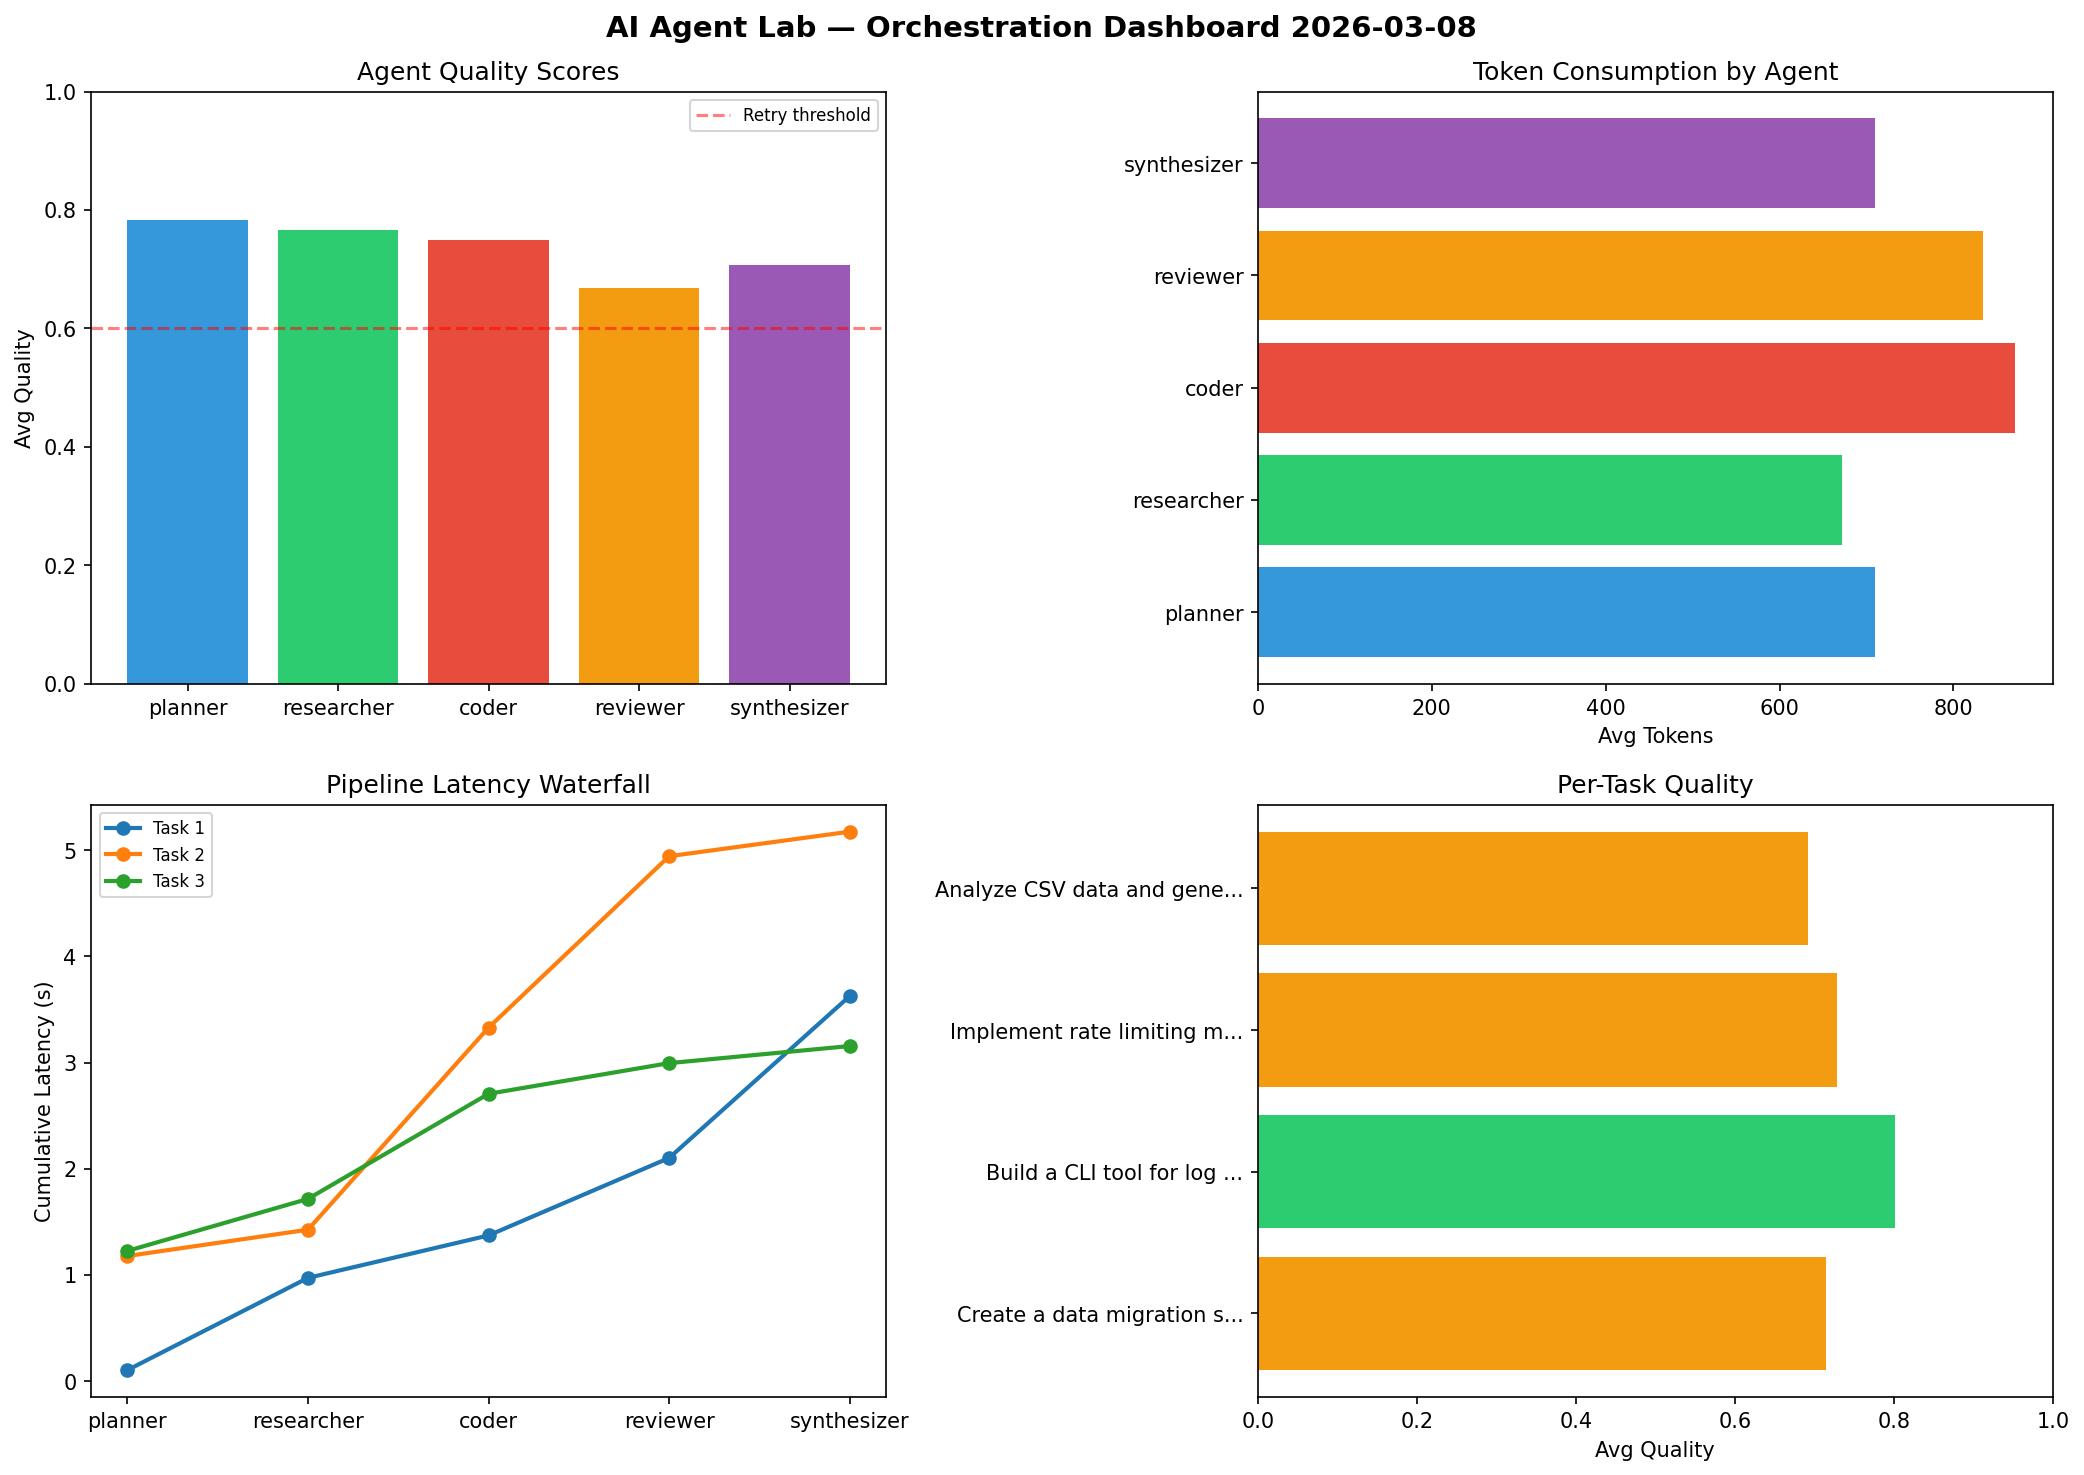
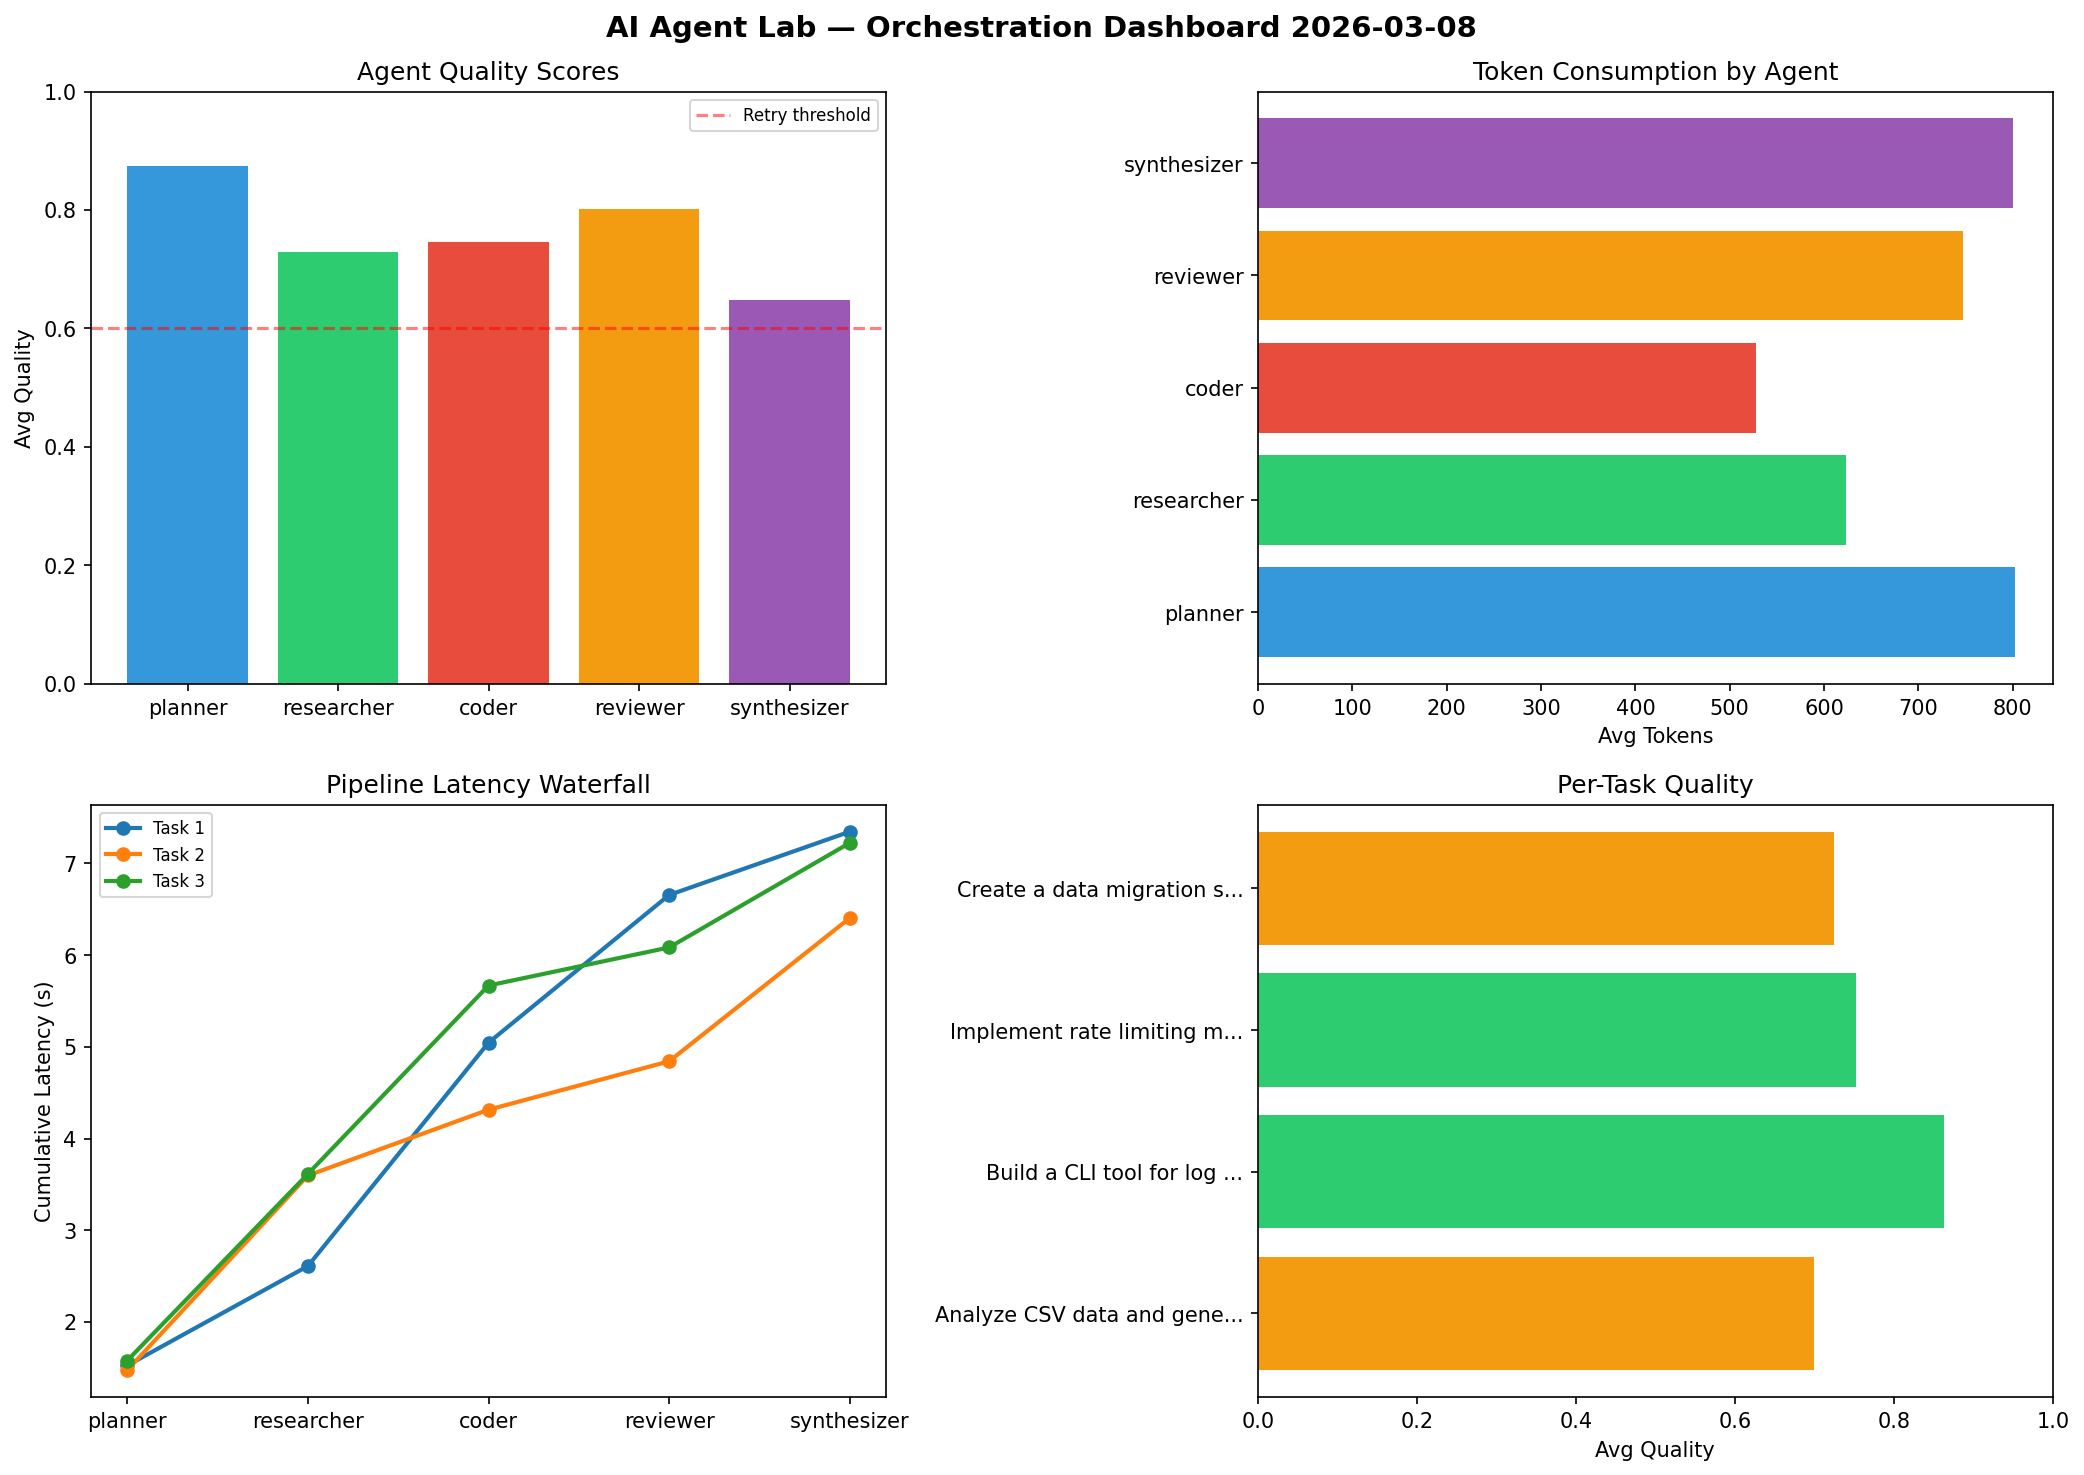
ai-agent-lab: orchestration run 2026-03-08T20:44

diff --git a/logs/2026-03-08.md b/logs/2026-03-08.md
@@ -1,6 +1,6 @@
 # AI Agent Lab — Orchestration Report 2026-03-08
 
-**Run ID:** `512e3738a9` | **Tasks:** 4 | **Avg Quality:** 0.734
+**Run ID:** `ca94dc91be` | **Tasks:** 4 | **Avg Quality:** 0.76
 
 ![Dashboard](2026-03-08_dashboard.png)
 
@@ -8,52 +8,52 @@
 
 | Metric | Value |
 |--------|-------|
-| avg_latency | 5.07 |
-| total_tokens | 15182 |
-| avg_quality | 0.734 |
+| avg_latency | 6.651 |
+| total_tokens | 13999 |
+| avg_quality | 0.76 |
 
 ## Delta vs Yesterday
 
 | Metric | Today | Yesterday | Change |
 |--------|-------|-----------|--------|
-| avg_latency | 5.07 | 6.577 | 📉 -22.9% |
-| total_tokens | 15182 | 15138 | 📈 0.3% |
-| avg_quality | 0.734 | 0.816 | 📉 -10.0% |
+| avg_latency | 6.651 | 6.577 | 📈 1.1% |
+| total_tokens | 13999 | 15138 | 📉 -7.5% |
+| avg_quality | 0.76 | 0.816 | 📉 -6.9% |
 
 ## Pipeline Results
-
-### Create a data migration script for schema v2
-| Agent | Quality | Latency | Tokens | Status |
-|-------|---------|---------|--------|--------|
-| planner | 0.993 | 0.103s | 515 | success |
-| researcher | 0.794 | 0.869s | 789 | success |
-| coder | 0.571 | 0.4s | 788 | needs_retry |
-| reviewer | 0.67 | 0.73s | 821 | success |
-| synthesizer | 0.547 | 1.525s | 568 | needs_retry |
-
-### Build a CLI tool for log analysis
-| Agent | Quality | Latency | Tokens | Status |
-|-------|---------|---------|--------|--------|
-| planner | 0.729 | 1.178s | 817 | success |
-| researcher | 0.88 | 0.248s | 661 | success |
-| coder | 0.907 | 1.903s | 779 | success |
-| reviewer | 0.635 | 1.615s | 1206 | success |
-| synthesizer | 0.86 | 0.231s | 766 | success |
-
-### Implement rate limiting middleware
-| Agent | Quality | Latency | Tokens | Status |
-|-------|---------|---------|--------|--------|
-| planner | 0.865 | 1.226s | 753 | success |
-| researcher | 0.642 | 0.49s | 529 | success |
-| coder | 0.772 | 0.99s | 999 | success |
-| reviewer | 0.698 | 0.289s | 704 | success |
-| synthesizer | 0.669 | 0.161s | 1175 | success |
 
 ### Analyze CSV data and generate statistical summary
 | Agent | Quality | Latency | Tokens | Status |
 |-------|---------|---------|--------|--------|
-| planner | 0.544 | 1.344s | 754 | needs_retry |
-| researcher | 0.746 | 1.216s | 707 | success |
-| coder | 0.748 | 1.613s | 917 | success |
-| reviewer | 0.673 | 1.652s | 605 | success |
-| synthesizer | 0.749 | 2.498s | 329 | success |
+| planner | 0.683 | 1.526s | 648 | success |
+| researcher | 0.907 | 1.084s | 689 | success |
+| coder | 0.597 | 2.435s | 553 | needs_retry |
+| reviewer | 0.765 | 1.61s | 770 | success |
+| synthesizer | 0.546 | 0.69s | 761 | needs_retry |
+
+### Build a CLI tool for log analysis
+| Agent | Quality | Latency | Tokens | Status |
+|-------|---------|---------|--------|--------|
+| planner | 0.991 | 1.475s | 928 | success |
+| researcher | 0.812 | 2.122s | 656 | success |
+| coder | 0.916 | 0.717s | 500 | success |
+| reviewer | 0.872 | 0.528s | 831 | success |
+| synthesizer | 0.723 | 1.562s | 706 | success |
+
+### Implement rate limiting middleware
+| Agent | Quality | Latency | Tokens | Status |
+|-------|---------|---------|--------|--------|
+| planner | 0.97 | 1.58s | 662 | success |
+| researcher | 0.509 | 2.034s | 253 | needs_retry |
+| coder | 0.96 | 2.054s | 446 | success |
+| reviewer | 0.626 | 0.415s | 633 | success |
+| synthesizer | 0.697 | 1.14s | 519 | success |
+
+### Create a data migration script for schema v2
+| Agent | Quality | Latency | Tokens | Status |
+|-------|---------|---------|--------|--------|
+| planner | 0.85 | 0.581s | 971 | success |
+| researcher | 0.691 | 0.769s | 893 | success |
+| coder | 0.514 | 2.479s | 614 | needs_retry |
+| reviewer | 0.942 | 0.932s | 753 | success |
+| synthesizer | 0.626 | 0.873s | 1213 | success |
